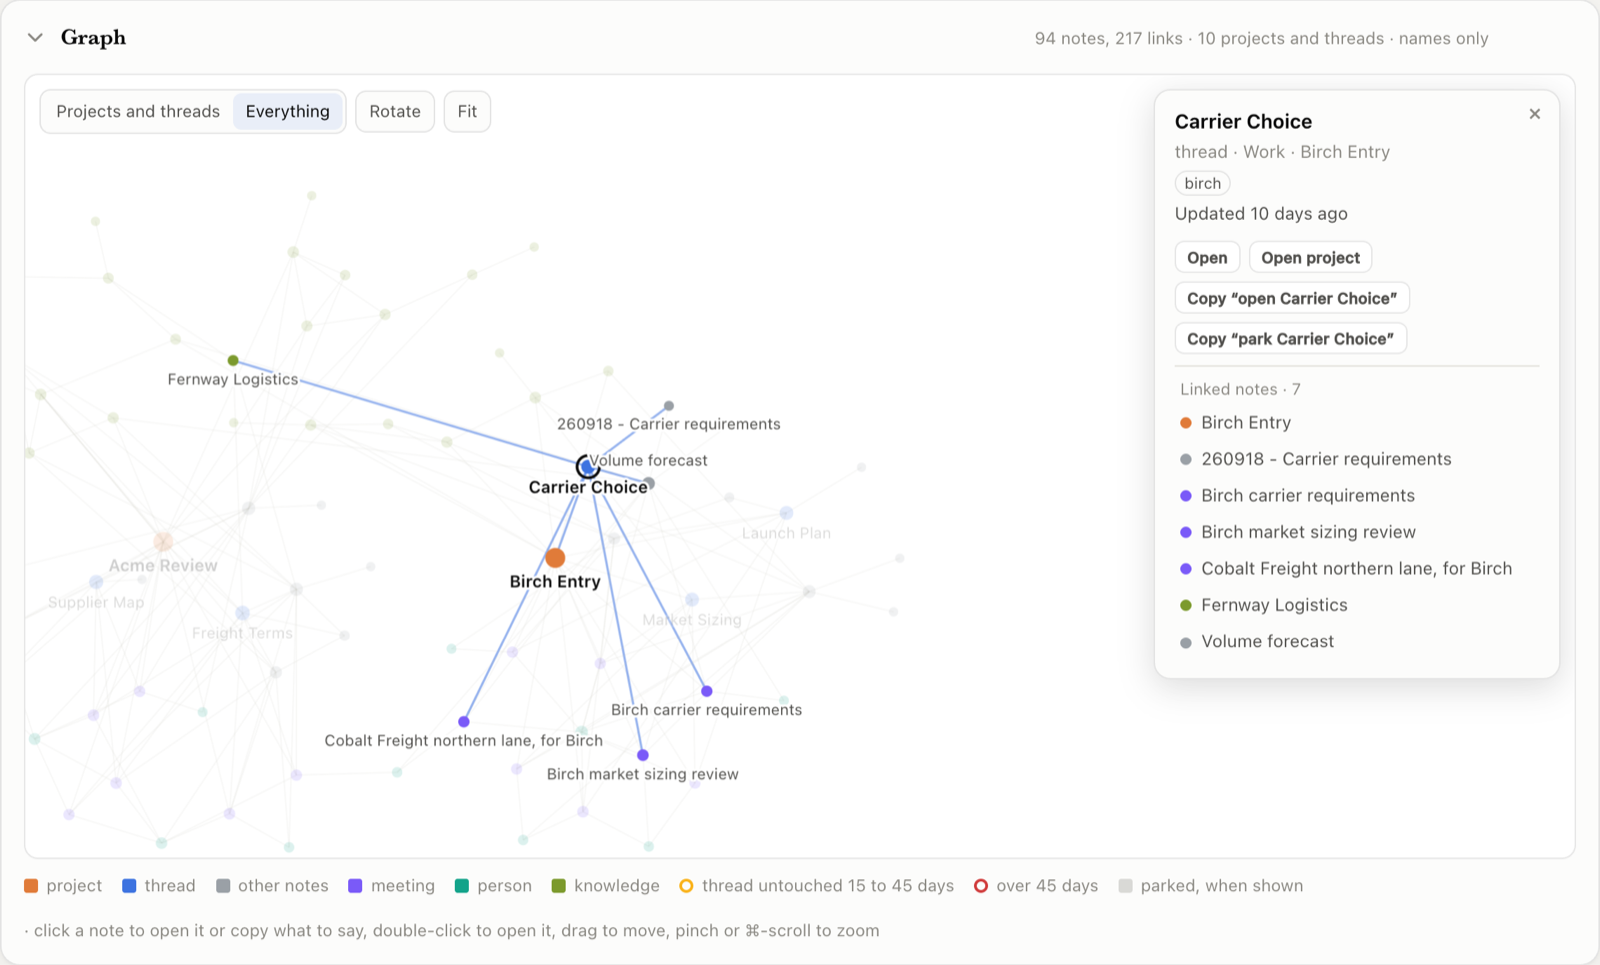
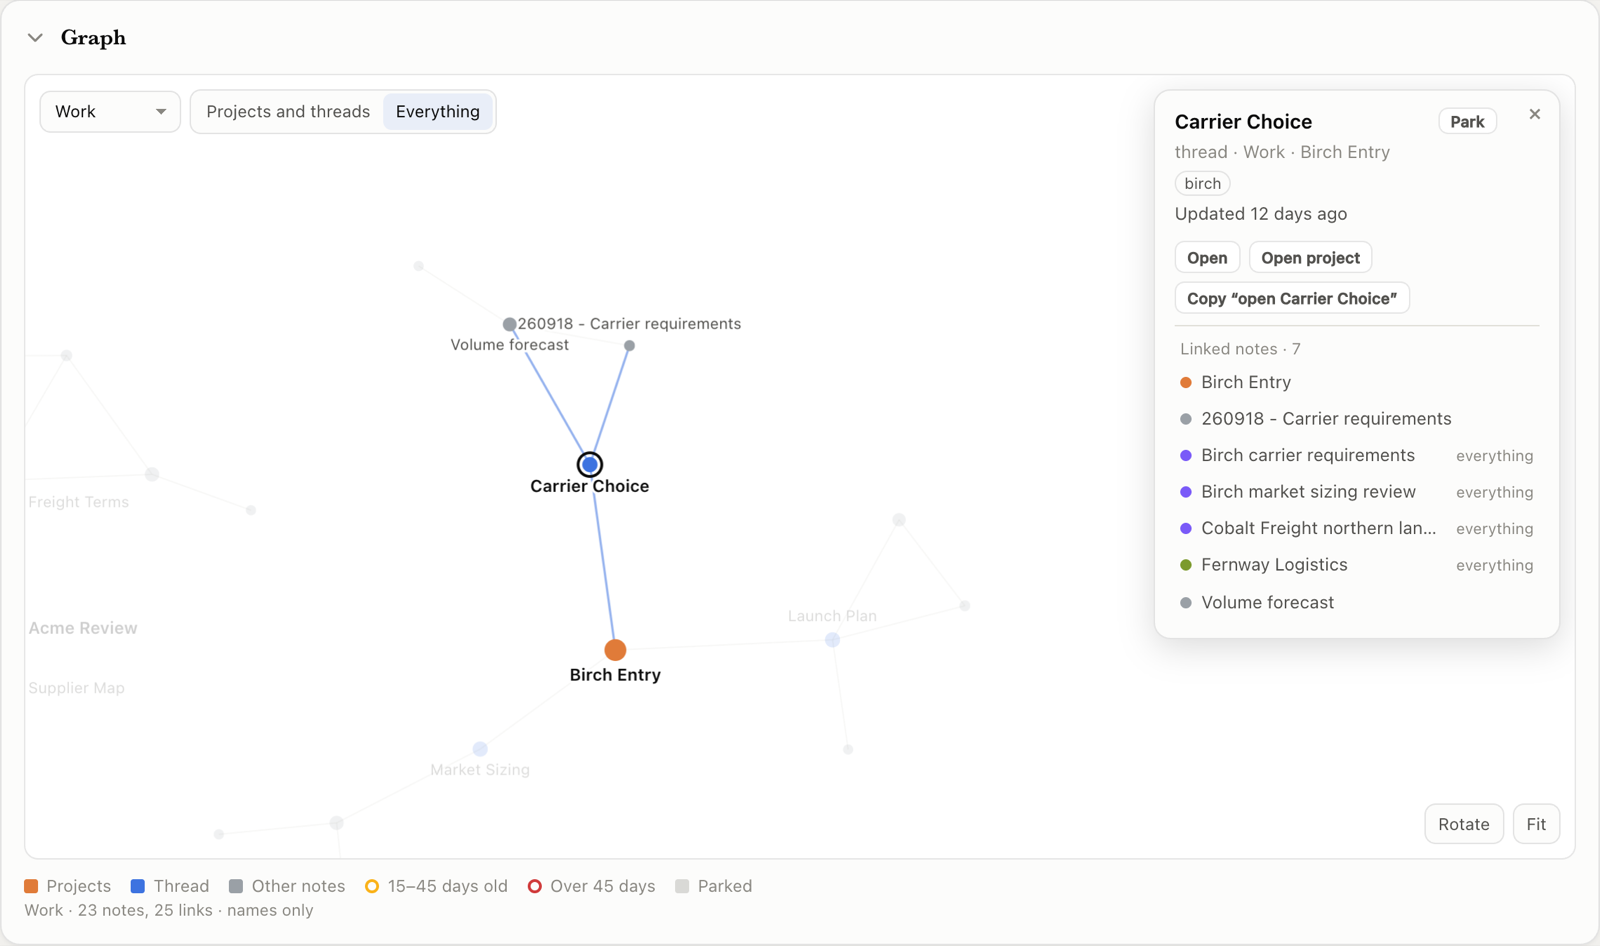
Garrick 0.6.0
The screenshots in the docs and on deck slide 14 retaken from the demo as
0.6.0 shows it.

diff --git a/extras/status/status.py b/extras/status/status.py
@@ -34,11 +34,16 @@ note's body never reaches the page. Pass --no-graph to leave the graph out.
 opens it in Obsidian when Obsidian has registered the workspace, or the zone or
 wiki the note is in, as a vault; otherwise it opens the file itself, in
 whatever app you use for Markdown. `--obsidian VAULT` names the workspace root
-as the vault instead, and `--no-obsidian` keeps every link a file link. Where
-cmux is installed and the page is open in Garrick's Status.app (see `app/`),
-projects and threads also offer Open in cmux; `--no-cmux` leaves it out. A
-zone with no Todo.md gets no Open actions, and a workspace with none gets no
-card for them.
+as the vault instead, and `--no-obsidian` keeps every link a file link. In
+Garrick's Status.app (see `app/`), projects and threads also offer Reveal in
+Finder and Open in Claude, Codex or cmux, for each one installed and switched
+on in Settings, where one of them can also be what clicking a thread's name
+does; `--no-cmux` leaves cmux out. A zone with no Todo.md gets no Open
+actions, and a workspace with none gets no card for them.
+
+Preview features (FLAGS) stay off until System/garrick-flags.json switches
+them on: the Todo list, and the buttons that act, which page_action.py beside
+this file carries out for the Mac app.
 
 Copy this folder into your workspace as `System/status/`, next to
 `System/jobs/` if you have it, and run it by hand or on a schedule through

diff --git a/CHANGELOG.md b/CHANGELOG.md
@@ -4,15 +4,18 @@ What changed in each release. Dates are when the release was tagged. The format 
 
 ## [Unreleased]
 
+## [0.6.0] - 2026-10-05
+
+The status page is reorganised around how it is used: *Overview* for your work, *Status* for the machinery, the graph one place at a time, and Settings for how a thread opens. Todo lines move to the Obsidian Tasks format, and two preview features, the Todo list and buttons that act, can be switched on.
+
 ### Added
 
 - Preview feature `page-actions`: in Garrick's Status.app, tick and date a line of the Todo list, and park or wake a thread from its card. Each button changes one line or one `status:` field and commits it, as the skills do, and a commit the wall check refuses leaves the file as it was. `extras/status/page_action.py` does the work; a browser cannot reach it.
-
 - With `page-actions` on, a scheduled job of the jobs extra gets *Run now*, which starts it through launchd so it keeps its own wrapper, lock and log.
 
 ### Changed
 
-- The page has tabs. *Overview* is where your work stands: the tiles, *Needs attention*, the graph, the threads, open actions and inboxes. *Status* is the machinery behind it: scheduled jobs, assistant calls, the check, repositories and wikis, with a red dot on the tab when something there failed, and *Needs attention* at its top. The sidebar lists them in that order. Every tile on *Overview*, and the summary at the top of the sidebar, opens the card that explains it, in whichever tab it sits. A card's header has a button that moves it to the other tab, and *Reset view* puts every card back.
+- The page has tabs. *Overview* is where your work stands: the tiles, the graph, the threads, open actions and inboxes. *Status* is the machinery behind it: scheduled jobs, assistant calls, the check, repositories and wikis, with a red dot on the tab when something there failed, and *Needs attention* at its top. The sidebar lists them in that order. Every tile on *Overview*, and the summary at the top of the sidebar, opens the card that explains it, in whichever tab it sits. A card's header has a button that moves it to the other tab, and *Reset view* puts every card back.
 - *Settings* lists the ways to open a thread: the note's own link (*Open in Obsidian*, or *Open the note* without Obsidian), *Reveal in Finder*, cmux, Codex and Claude. Each has a checkbox, whether the cards offer it, and a radio button, what clicking a thread's name does; the note's link is the default. Settings closes with the × at its top right, and every change is kept as it is made.
 - *Park* and *Wake* sit at the top right of a thread's card and the graph's panel, beside the name, rather than among the ways to open it. *Pause rotation* and *Fit* sit in the graph's bottom right corner. Closing Settings after a change rebuilds the page in the Mac app. The sidebar's *Problems only* became *Only what needs attention*, at the top of the *Status* tab, and acts on that tab alone.
 - The graph shows one place at a time, Work first: a drop-down in its bar picks a zone, a wiki, or *All*, and the page remembers the pick. The graph's and the threads' counts sit under their legends rather than in the card headers, and the legends are shorter.
@@ -142,7 +145,8 @@ First public release.
 - A demo workspace built by `examples/demo/build.py`: an invented advisor, four weeks in.
 - Documentation, the extras (tools that pair with Garrick but are not part of it), and a fifteen-slide introduction.
 
-[Unreleased]: https://github.com/iamvenuti/garrick/compare/v0.5.0...HEAD
+[Unreleased]: https://github.com/iamvenuti/garrick/compare/v0.6.0...HEAD
+[0.6.0]: https://github.com/iamvenuti/garrick/compare/v0.5.0...v0.6.0
 [0.5.0]: https://github.com/iamvenuti/garrick/compare/v0.4.0...v0.5.0
 [0.4.0]: https://github.com/iamvenuti/garrick/compare/v0.3.1...v0.4.0
 [0.3.1]: https://github.com/iamvenuti/garrick/compare/v0.3.0...v0.3.1

diff --git a/docs/extras/index.md b/docs/extras/index.md
@@ -10,6 +10,6 @@ Everything on this page is optional. Core Garrick, the folder structure, `AGENTS
 - [Ways in](ways-in.md), for fetching mail into a zone's inbox without doing it by hand: your assistant's own mail connector, the IMAP script in `extras/fetch/`, or a mail rule. It also sets out where core sorts what arrives.
 - [Phone access](phone-access.md), through the assistants' own remote features.
 - [Scheduled jobs](scheduled-jobs.md), for running the check without being asked, or an assistant on a schedule: a morning brief per zone, with a spend cap and nothing allowed to send.
-- [A status page](status-page.md), Garrick's Status: one HTML file that shows every live thread, what the check found, what is waiting in the inboxes and how your jobs ran. It reads and never stores. It shows names, tags, dates, counts, check findings and the targets of links, and leaves the rest of a note's body out. It opens in a browser or in a small Mac app, and offers Obsidian and cmux only where they are installed.
+- [A status page](status-page.md), Garrick's Status: one HTML file that shows every live thread, what the check found, what is waiting in the inboxes and how your jobs ran. It reads and never stores. It shows names, tags, dates, counts, check findings and the targets of links, and leaves the rest of a note's body out. It opens in a browser or in a small Mac app, with *Overview* and *Status* tabs, and offers Obsidian, Finder, Claude, Codex and cmux only where they are installed.
 
 If you strip every one of these away, a Garrick workspace still installs, still opens and wraps threads, still checks itself, and still applies its declared wall rules and commit checks, within the [documented limits](../principles.md#what-the-check-covers). What you lose, in each case, is named on that extra's own page.
